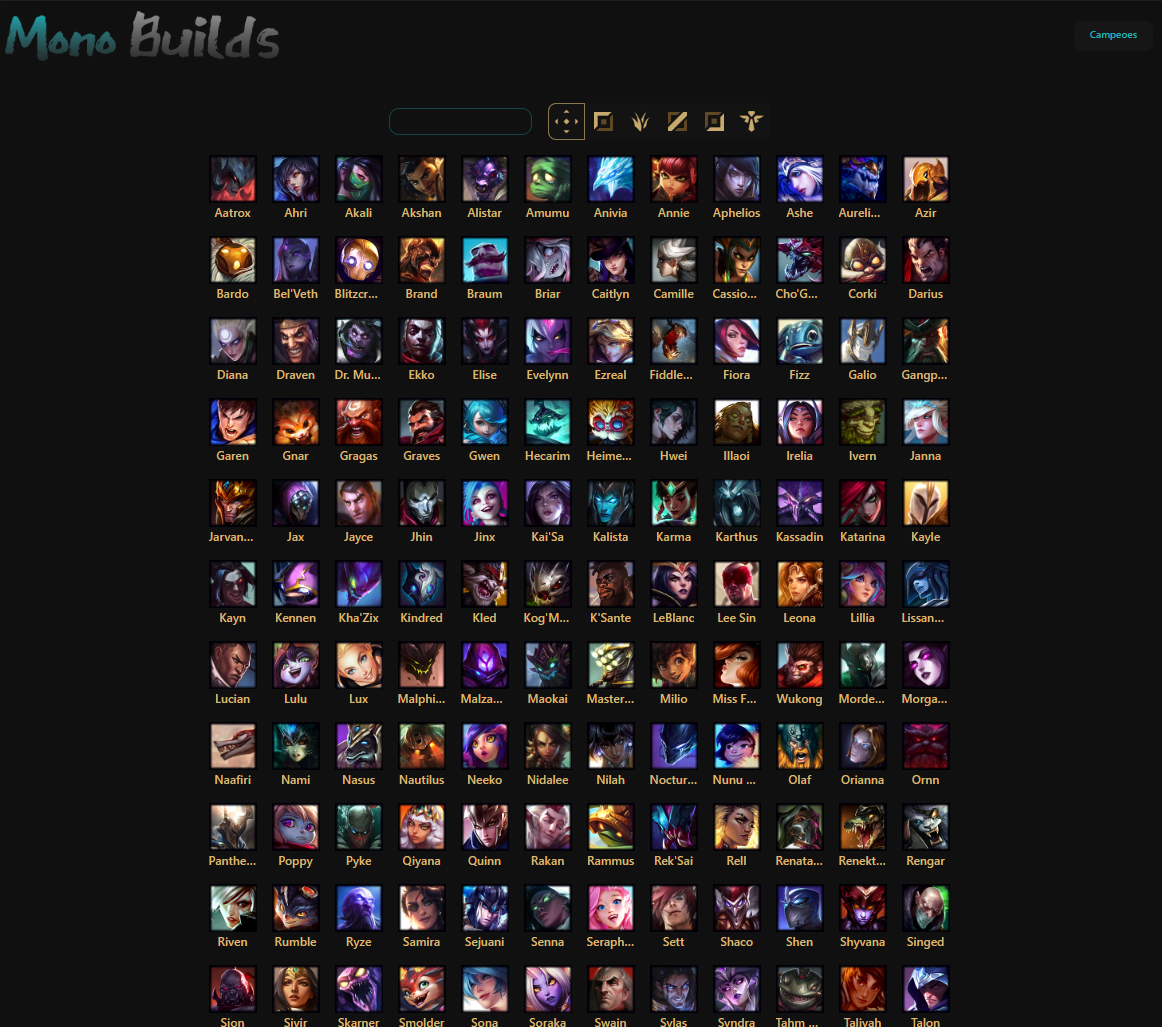
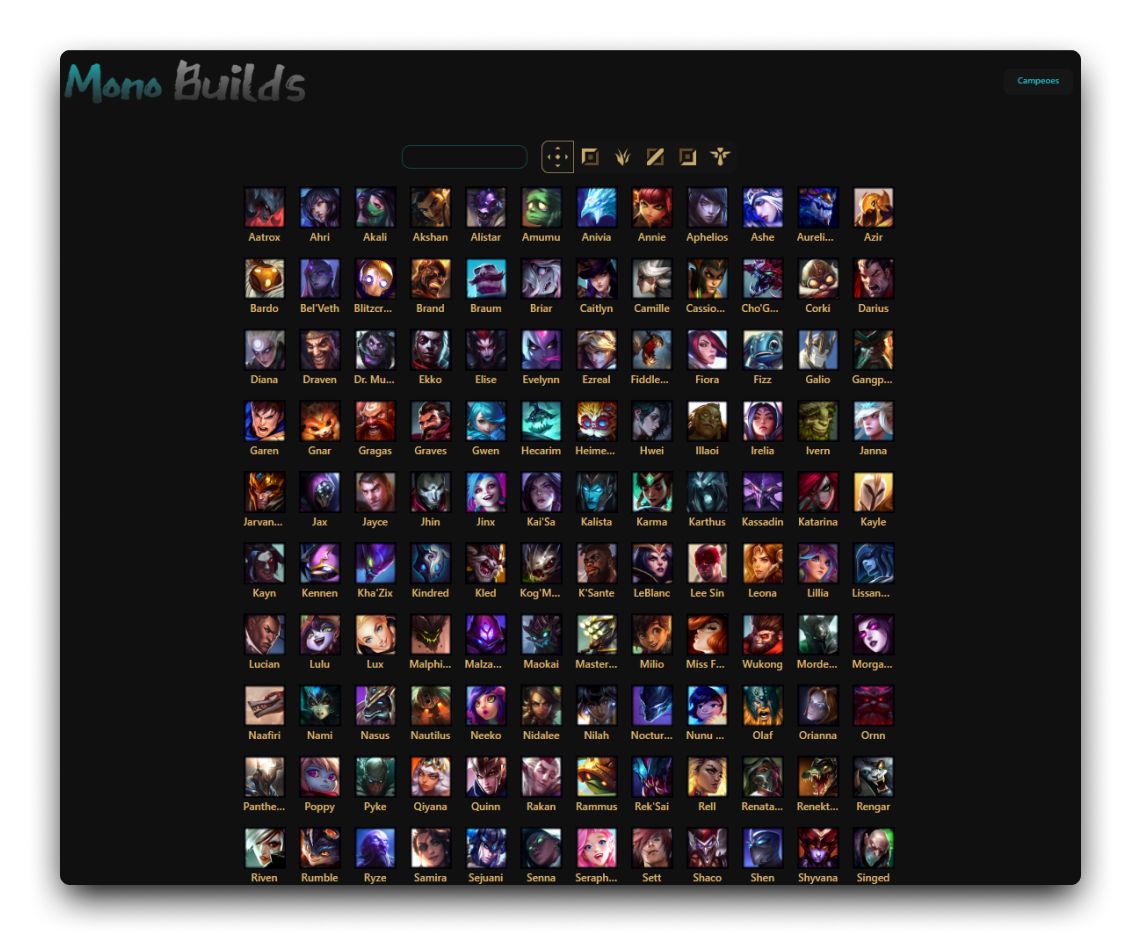
readme ajuste

diff --git a/README.md b/README.md
@@ -8,8 +8,8 @@ Um projeto particular feito para listar os itens mais ultilizados pelos Monocham
 
 <!-- [![Preview in vscode.dev](https://img.shields.io/badge/preview%20in-vscode.dev-blue)](https://vscode.dev/editor/theme/SeilaColor.seilacolor) -->
 
-<img src="https://raw.githubusercontent.com/meunik/seilacolor/master/Captura1.png" width="100%"/>
-<img src="https://raw.githubusercontent.com/meunik/seilacolor/master/Captura2.png" width="100%"/>
-<img src="https://raw.githubusercontent.com/meunik/seilacolor/master/Captura3.png" width="100%"/>
+<img src="https://raw.githubusercontent.com/meunik/MonoBuildsFront/master/img/monoBuilds1.png" width="100%"/>
+<img src="https://raw.githubusercontent.com/meunik/MonoBuildsFront/master/img/monoBuilds2.png" width="100%"/>
+<img src="https://raw.githubusercontent.com/meunik/MonoBuildsFront/master/img/monoBuilds3.png" width="100%"/>
 
 </div>
